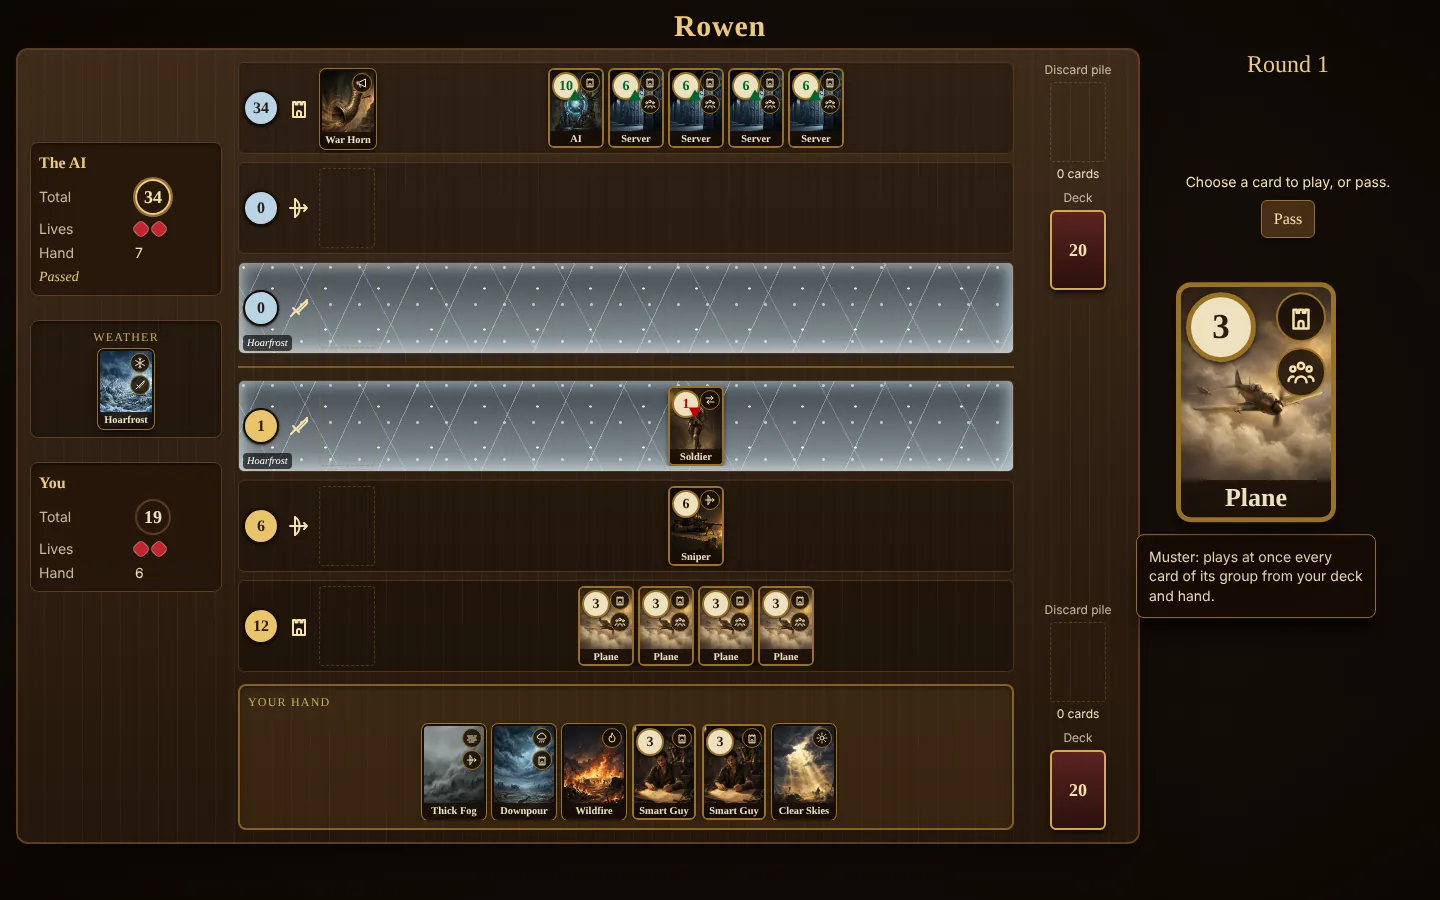
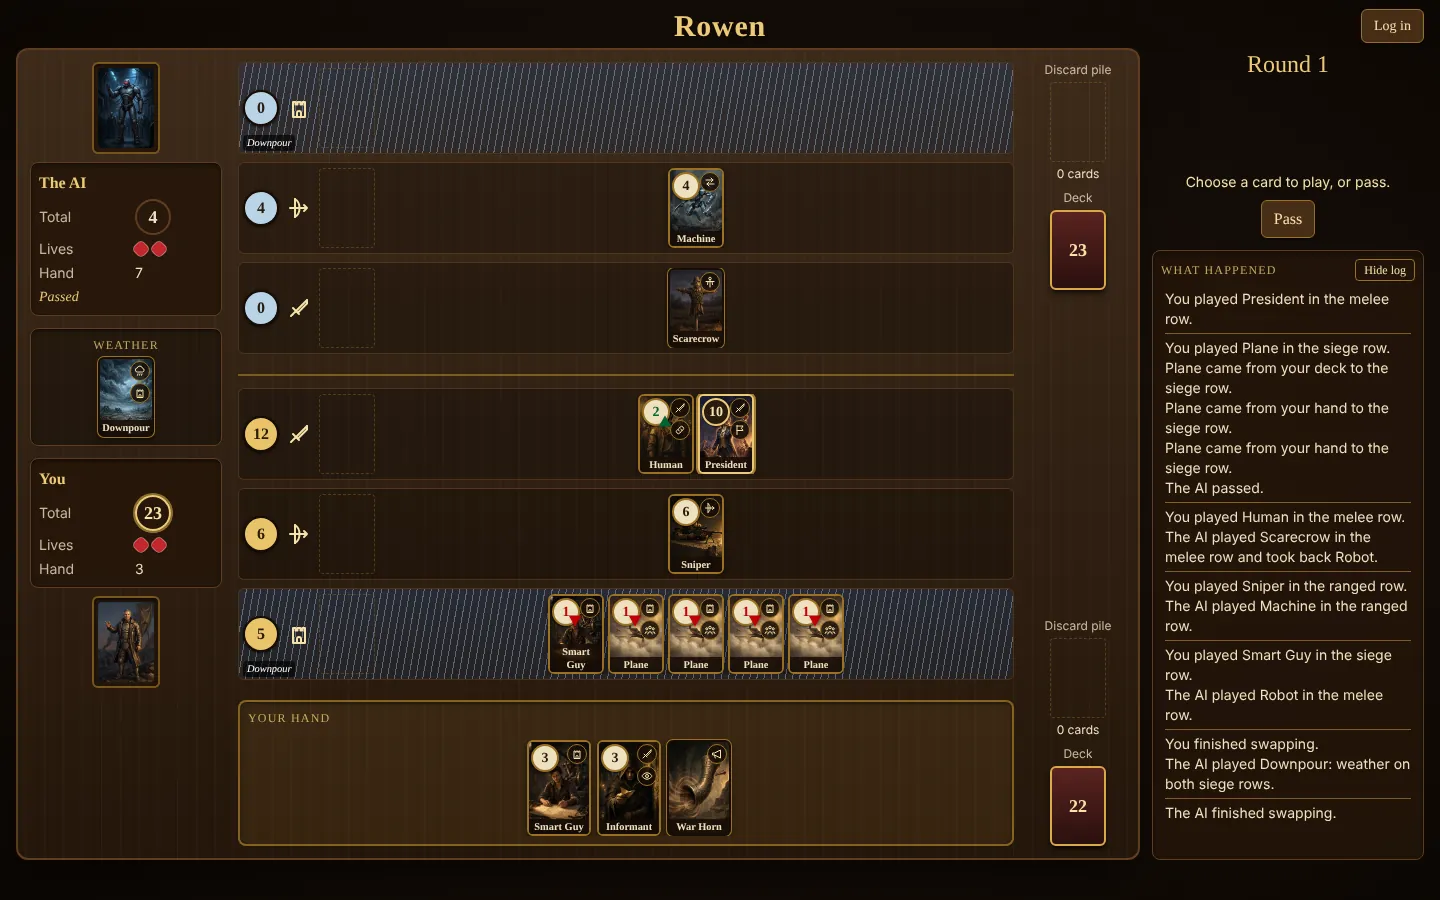
docs: bring the texts and the README's screenshot up to this release (#171)
From the v0.5.0 review:
- rules.md section 9: the cleanup and "no cards are drawn" now say
  "except by a passive".
- Comments that still said a card is drawn (decks.py, baseline.py,
  test_passives.py).
- texts.py builds the Humans' passive text from ROUND_WIN_DRAWS, so the
  text can't drift from the rule.
- ADR 0019: one title, as in the index; how the board shows a leader.
- README: the status of v0.5.0, the AI level in the POST /matches
  example, links to the balance report, and a new screenshot (the old
  one was from v0.3.0).

diff --git a/backend/src/rowen/engine/texts.py b/backend/src/rowen/engine/texts.py
@@ -11,6 +11,7 @@ from collections.abc import Mapping
 
 from rowen.engine.cards import WEATHER_ROWS, Ability, Card, SpecialKind, UnitCard
 from rowen.engine.decks import Passive
+from rowen.engine.passives import ROUND_WIN_DRAWS
 
 # What each ability does (rules, section 7).
 ABILITY_TEXTS: Mapping[Ability, str] = {
@@ -65,7 +66,7 @@ SPECIAL_TEXTS: Mapping[SpecialKind, str] = {
 
 # What each faction's passive does (rules, section 12).
 PASSIVE_TEXTS: Mapping[Passive, str] = {
-    Passive.DRAW_ON_ROUND_WIN: "Draws 2 cards after winning a round.",
+    Passive.DRAW_ON_ROUND_WIN: f"Draws {ROUND_WIN_DRAWS} cards after winning a round.",
     Passive.KEEP_A_UNIT: (
         "After each round, one random unit stays on the board, but not a "
         "Legend or a Spy."

diff --git a/backend/src/rowen/ai/baseline.py b/backend/src/rowen/ai/baseline.py
@@ -43,9 +43,10 @@ UNKNOWN = UnitCard(
 )
 
 # What a card in the hand is worth, in points: about what a card adds to the
-# board. No cards are drawn between rounds, so the cards left are all a player
-# has for the rest of the match. Counting them, the AI plays a Spy for the
-# cards it draws, and a Medic for the unit it brings back.
+# board. Apart from a passive, no cards are drawn between rounds, so the cards
+# left are about all a player has for the rest of the match. Counting them,
+# the AI plays a Spy for the cards it draws, and a Medic for the unit it
+# brings back.
 CARD_VALUE = 5
 
 # What a life is worth, in points. Once the opponent has passed, winning the

diff --git a/backend/src/rowen/engine/decks.py b/backend/src/rowen/engine/decks.py
@@ -22,7 +22,7 @@ class Passive(StrEnum):
     section 12). ``rowen.engine.passives`` carries each one out.
     """
 
-    # After winning a round, draw a card (not on a tie).
+    # After winning a round, draw passives.ROUND_WIN_DRAWS cards (not on a tie).
     DRAW_ON_ROUND_WIN = "draw_on_round_win"
     # After each round, one random unit stays on the board.
     KEEP_A_UNIT = "keep_a_unit"

diff --git a/backend/tests/test_passives.py b/backend/tests/test_passives.py
@@ -145,7 +145,7 @@ def test_each_player_starts_with_their_decks_leader() -> None:
     assert [side.leader for side in player_view(state, 0).players] == leaders
 
 
-# Humans: draw a card after winning a round
+# Humans: draw 2 cards after winning a round
 
 
 def test_the_winner_draws_the_first_2_cards_of_their_deck() -> None:

diff --git a/README.md b/README.md
@@ -6,16 +6,19 @@ A turn-based card game inspired by the Gwent minigame from *The Witcher 3*, buil
 as a full-stack web application: a pure Python rules engine behind a FastAPI API,
 PostgreSQL, and a React + TypeScript frontend.
 
-> **Status:** Phase 4 is done and released as
-> [`v0.4.0`](https://github.com/Serodio1/Rowen/releases): a match against the
+> **Status:** Phase 5 is done and released as
+> [`v0.5.0`](https://github.com/Serodio1/Rowen/releases): a match against the
 > AI can be played online, on a board with card art, animations and the
-> keyboard, as a guest or with an account. A player with an account finds
-> their matches under "My matches", resumes an unfinished one, sees how many
-> they won, lost and drew with each deck, and builds decks of their own under
-> "My decks". Phase 5, a smarter AI and the rest of the rules, comes next.
+> keyboard, as a guest or with an account, against an Easy, Normal or Hard AI
+> (the last two guess the cards they can't see). Each faction has a leader
+> with a passive of its own, and the two decks win about as often
+> ([balance report](docs/balance.md)). A player with an account finds their
+> matches under "My matches", resumes an unfinished one, and builds decks of
+> their own under "My decks". v1.0.0, the polish, comes next.
 
-![A match in Rowen: the AI's rows above, the player's below, Hoarfrost on both
-melee rows, and a Plane shown large with what it does](docs/screenshot.webp)
+![A match in Rowen: the AI's rows above, the player's below, each side's
+leader beside its panel, Downpour on both siege rows, a Scarecrow in the AI's
+melee row, and what happened in the log](docs/screenshot.webp)
 
 ## Play online
 
@@ -34,6 +37,8 @@ online.
 - [Architecture decision records](docs/adr/README.md): why the main
   technical decisions were made.
 - [Deploying to Google Cloud Run](docs/deploy.md)
+- [Balance report](docs/balance.md): whether the two decks win as often, and
+  how it is measured.
 - [The cards' art](docs/art.md): where it comes from, and how to add more.
 - [Phase 1 retrospective](docs/retrospectives/phase-1.md): what the game
   engine release built, and what it taught.
@@ -96,8 +101,10 @@ other:
 uv run rowen-arena hard easy --matches 400   # Hard against Easy, 400 matches
 ```
 
-It shows the share of the decisive matches the first AI won, with a 95% margin
-of error, and how long each AI takes per move.
+It shows the share of the decisive matches the first AI won, and each deck's,
+with a 95% margin of error, and how long each AI takes per move. With the
+same level on both sides, it says whether the decks are fair
+([balance report](docs/balance.md)).
 
 ## Run the web API
 
@@ -111,7 +118,8 @@ uv run uvicorn rowen.api.app:app --reload --reload-dir src
 
 Then open <http://127.0.0.1:8000/docs>: it lists the endpoints and lets you
 try them. `GET /decks` lists the decks, and `POST /matches` with
-`{"deck": "humans"}` starts a match (if the AI starts, it swaps its cards first,
+`{"deck": "humans", "level": "normal"}` starts a match against the Normal AI
+(`easy`, the default, `normal` or `hard`) (if the AI starts, it swaps its cards first,
 and the response says so). To play, send one of the `legal_actions`
 of the view, as it is, with the match's `version`, to
 `POST /matches/{id}/actions`: `{"version": 1, "action": {"type": "pass"}}`.

diff --git a/docs/adr/0019-faction-passives-belong-to-the-deck.md b/docs/adr/0019-faction-passives-belong-to-the-deck.md
@@ -1,4 +1,4 @@
-# ADR 0019: Give each faction a passive, kept with its deck and carried out by the engine
+# ADR 0019: Give each faction a passive, brought by its leader and carried out by the engine
 
 - **Status:** Accepted; the passive comes with the faction's leader (see the
   update at the end)
@@ -73,11 +73,11 @@ name and art of its own (`docs/art.md`).
   player's state, and each side of the view, keeps the leader.
   `rowen.engine.passives` reads the passive from it.
 - The API sends the leader (id, name and the passive's text) in each side
-  and in the list of decks. The page shows the leader's art, name and
-  passive in each player's panel, and under each deck to choose.
+  and in the list of decks. The board shows the leader's art beside each
+  player's panel (the name and passive on hover and for screen readers), and
+  the screen to choose a deck shows the art, name and passive under each deck.
 - More leaders, each with another passive, can come later: a faction's deck
   names one, and a player would choose among them when building a deck.
-
 
 ## Update (2026-10-30): the Humans draw 2 cards
 

diff --git a/docs/rules.md b/docs/rules.md
@@ -155,11 +155,13 @@ The round ends when **both players have passed**.
 1. **Result:** the player with the higher total wins the round and the other
    player loses 1 life. On a **tie**, both players lose 1 life.
 2. **Cleanup:** every card on the board (units, War Horns, Scarecrows) goes to
-   the discard pile of the side it is on. A Spy therefore ends up in the
+   the discard pile of the side it is on, except the unit a passive keeps
+   (section 12). A Spy therefore ends up in the
    opponent's discard pile, where that player's Medic can revive it and use it
    against its original owner. Weather cards go to the discard pile of the player
    who played them.
-3. Hands and decks carry over. **No cards are drawn.**
+3. Hands and decks carry over. **No cards are drawn**, except by a passive
+   (section 12).
 4. **Next round:** the **winner** of the round plays first. Playing first is a
    disadvantage, because you reveal your plan first, so this helps the player
    who is behind. After a tie, the player who played first in that round plays
